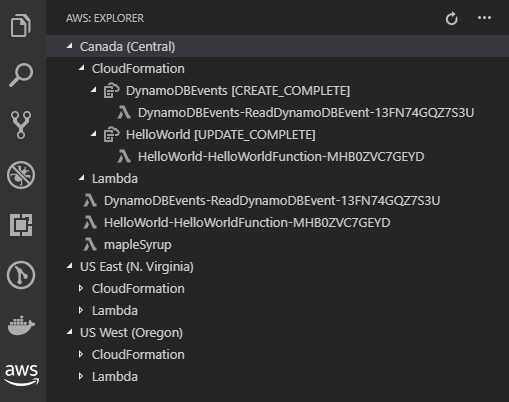
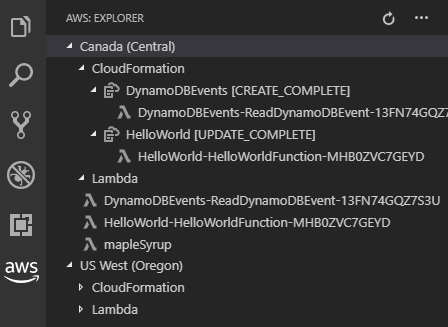
Review of extension-readme.md.

diff --git a/extension-readme.md b/extension-readme.md
@@ -1,112 +1,143 @@
 # <a id="top"></a>AWS Toolkit for Visual Studio Code
 
-The AWS Toolkit for Visual Studio Code is an extension that enables you to interact with [Amazon Web Services (AWS)](https://aws.amazon.com/what-is-aws/) from within Visual Studio Code.
+The *AWS Toolkit for Visual Studio Code* is an extension that enables you to interact with [Amazon Web Services (AWS)](https://aws.amazon.com/what-is-aws/) from within the Visual Studio Code editor.
+
+The following screedshots show important parts of the Toolkit.
+
+### Fundamental UI Components
 
 ![Overview](./resources/marketplace/overview.png)
 
-## Contents
+### <a id="open-command-palette"></a>AWS Commands in the Command Palette
+<!--
+![AWS Commands](./resources/marketplace/open-command-palette.png)
+-->
+
+![Command Palette](./resources/marketplace/open-command-palette.gif)
+___
+
+# <a id="contents"></a>Contents
 
 * [Features](#features)
 * [Setup](#additional-setup-steps)
+* [AWS Commands](#aws-commands)
 * [Usage](#usage)
 * [Get Help](#get-help)
 
-## <a id="features"></a>Features
+| [Return to Top](#top) |
+___
 
-You can use the AWS Toolkit for Visual Studio Code to:
+# <a id="features"></a>Features
 
-* [Develop serverless applications locally, and then deploy them to an AWS account](#developing-serverless-applications)
-* [Manage supported AWS resources in an AWS account](#managing-aws-resources)
-  
-  * List AWS CloudFormation stacks.
-  * List AWS Lambda functions.
-  * Invoke Lambda functions.
+You can use the AWS Toolkit for Visual Studio Code as follows:
+
+* Develop serverless applications locally, and then deploy them to an AWS account (see [Usage](#usage))
+* Manage certain supported AWS resources in an AWS account (see [Usage](#usage)).
+
+  This includes:
+  * Listing and deleting AWS CloudFormation stacks
+  * Listing and invoking AWS Lambda functions
+
+  For example:
 
   ![AWS Explorer](./resources/marketplace/aws-explorer.png)
 
-[Return to Top](#top)
+| [Return to Contents](#contents) | or | [Return to Top](#top) |
+___
 
-## <a id="additional-setup-steps"></a>Setup
+# <a id="additional-setup-steps"></a>Setup
 
-After you install the AWS Toolkit for Visual Studio Code, you must complete these additional steps to access most of its features:
+After you install the AWS Toolkit for Visual Studio Code, to access most of its features, you must complete the additional steps defined in the [Getting Started](https://docs.aws.amazon.com/console/toolkit-for-vscode/getting-started) topic of the _AWS Toolkit for Visual Studio Code User Guide_. These additional steps include the following:
 
-1. [Create an AWS account](https://aws.amazon.com/premiumsupport/knowledge-center/create-and-activate-aws-account/).
-1. [Create an access key](https://docs.aws.amazon.com/toolkit-for-vscode/latest/userguide/setup-credentials.html).
-1. Connect the Toolkit to AWS by using [AWS credentials](#managing-aws-resources).
+1. Create an AWS account (see the [Prerequisites](https://docs.aws.amazon.com/console/toolkit-for-vscode/setup-toolkit#setup-prereq) in the user guide and also these [additional details](https://aws.amazon.com/premiumsupport/knowledge-center/create-and-activate-aws-account/))
+1. Create and configure a set of AWS credentials (see **Step 1** of [Managing AWS Resources](#managing-aws-resources))
+1. Connect the Toolkit to AWS using those credentials (see **Step 2** of [Managing AWS Resources](#managing-aws-resources))
 
 To use this Toolkit to develop [serverless applications with AWS](https://aws.amazon.com/serverless/), you must also do the following on the local machine where the Toolkit is installed:
 
-1. Install the [AWS Command Line Interface (AWS CLI)](https://docs.aws.amazon.com/cli/latest/userguide/cli-chap-install.html).
-1. Install and start [Docker](https://docs.docker.com/install/).
-1. Install the [AWS SAM CLI](https://docs.aws.amazon.com/serverless-application-model/latest/developerguide/serverless-sam-cli-install.html).
+1. Install the AWS Command Line Interface (AWS CLI)
+1. Install and start Docker (also see this general information about [Docker](https://docs.docker.com/install/))
+1. Install the AWS SAM CLI
 
-For complete setup instructions, see [Setting Up the AWS Toolkit for Visual Studio Code](https://docs.aws.amazon.com/toolkit-for-vscode/latest/userguide/getting-started.html) in the _AWS Toolkit for Visual Studio Code User Guide_.
+See [Installing the AWS SAM CLI](https://docs.aws.amazon.com/serverless-application-model/latest/developerguide/serverless-sam-cli-install.html) for complete setup instructions for these three components.
 
-[Return to Top](#top)
+| [Return to Contents](#contents) | or | [Return to Top](#top) |
+___
 
-## <a id="usage"></a>Usage
+# <a id="aws-commands"></a>AWS Commands
 
-* [Command Palette](#command-palette)
+The AWS Toolkit for Visual Studio Code has several features that you can access through the [Command Palette](#open-command-palette) (**View**, then **Command Palette**):
+
+| AWS Command | Description |
+| :---------- | :---------- |
+| **AWS: Create Credentials Profile** | Creates an AWS credentials profile. For more information, see **Step 1** in [Managing AWS Resources](#managing-aws-resources). |
+| **AWS: Connect to AWS** | Connects the Toolkit to an AWS account. For more information, see **Step 2** in [Managing AWS Resources](#managing-aws-resources). |
+| **AWS: Create New SAM Application** | Generates a set of code files for a new AWS serverless application. For more information, see [Create a Serverless Application](#create-serverless-application). |
+| **AWS: Deploy SAM Application** | Deploys a local serverless application to an AWS account. For more information, see [Deploy a Serverless Application](#deploy-serverless-application). |
+| **AWS: Detect SAM CLI** | Checks whether the Toolkit can communicate correctly with the AWS SAM CLI that is installed. |
+| **AWS: Focus on Explorer View** | Opens the **AWS: Explorer** Side Bar, which we will simply call _the **AWS Explorer**_, and then moves the focus there. |
+| **AWS: Hide region from the Explorer** | Hides an AWS Region from the the **AWS Explorer**. |
+| **AWS: Show region in the Explorer** | Displays an AWS Region in the **AWS Explorer**. |
+| **AWS: Sign out** | Disconnects the Toolkit from the currently-connected AWS account. |
+| **AWS: View AWS Toolkit Logs** | Displays log files that contain general Toolkit diagnostic information. |
+| **AWS: View Documentation** | Opens the [user guide](https://docs.aws.amazon.com/console/toolkit-for-vscode/welcome) for the Toolkit. |
+| **AWS: View Source on GitHub** | Opens the [GitHub repository](https://github.com/aws/aws-toolkit-vscode) for the Toolkit. |
+
+| [Return to Contents](#contents) | or | [Return to Top](#top) |
+___
+
+# <a id="usage"></a>Usage
+
 * [Managing AWS Resources](#managing-aws-resources)
 * [Developing Serverless Applications](#developing-serverless-applications)
 
-[Return to Top](#top)
+| [Return to Contents](#contents) | or | [Return to Top](#top) |
 
-### <a id="command-palette"></a>Command Palette
+## <a id="managing-aws-resources"></a>Usage: Managing AWS Resources
+___
 
-![Debug Icon](./resources/marketplace/command-palette.png)
+### **Step 1**: Set Up a Credentials Profile
+(*Note*: If you already have an AWS credentials profile, skip ahead to "**Step 2**: Connect to an AWS Account".)
 
-You can access many of the AWS Toolkit for Visual Studio Code features through **Command Palette**. To access the available commands, choose **View, Command Palette** on the menu bar, and then begin typing `AWS:`.
+For complete instructions, see [Setting Up Your AWS Credentials](https://docs.aws.amazon.com/console/toolkit-for-vscode/setup-credentials) in the _AWS Toolkit for Visual Studio Code User Guide_.
 
-Available commands include:
-
-* **AWS: Connect to AWS** - Connects the Toolkit to an AWS account. For more information, see "Step 2: Connect to an AWS Account" in [Managing AWS Resources](#managing-aws-resources).
-* **AWS: Create Credentials Profile** - Creates an AWS credentials profile. For more information, see "Step 1: Create a Credentials Profile" in [Managing AWS Resources](#managing-aws-resources).
-* **AWS: Create New SAM Application** - Generates a set of code files for a new AWS serverless application. For more information, see [Create a Serverless Application](#create-serverless-application).
-* **AWS: Deploy SAM Application** - Deploys a local serverless application to an AWS account. For more information, see [Deploy a Serverless Application](#deploy-serverless-application).
-* **AWS: Detect SAM CLI** - Checks whether the Toolkit can communicate correctly with the AWS SAM CLI that is installed. 
-* **AWS: Focus on Explorer View** - Displays the **AWS: Explorer** Side Bar, if it isn't already displayed, and then moves the focus to it.
-* **AWS: Hide region from the Explorer** - Hides the list of available AWS resources for the specified AWS Region from the **AWS: Explorer** Side Bar.
-* **AWS: Show region in the Explorer** - Displays the list of available AWS resources for the specified AWS Region in the **AWS: Explorer** Side Bar.
-* **AWS: Sign out** - Disconnects the Toolkit from the currently connected AWS account.
-* **AWS: View AWS Toolkit Logs** - Displays log files that contain general Toolkit diagnosis information.
-* **AWS: View Quick Start** - Displays this page.
-
-[Return to Top](#top)
-
-### <a id="managing-aws-resources"></a>Managing AWS Resources
-
-#### Step 1: Set Up a Credentials Profile
-
-1. If you already have an AWS credentials profile, skip ahead to "Step 2: Connect to an AWS Account." (For additional information, see [Setting Up Your AWS Credentials](https://docs.aws.amazon.com/toolkit-for-vscode/latest/userguide/setup-credentials.html) in the _AWS Toolkit for Visual Studio Code User Guide_.)
+   In summary:
 1. On the menu bar, choose **View, Command Palette**.
-1. Begin typing: `AWS: Create Credentials Profile`. When you see the **AWS: Create Credentials Profile** command, choose it.
-1. Follow the on-screen instructions to add AWS credentials profile information. (For additional information, see [Setting Up Your AWS Credentials](https://docs.aws.amazon.com/toolkit-for-vscode/latest/userguide/setup-credentials.html) in the _AWS Toolkit for Visual Studio Code User Guide_.) 
+1. Begin typing: "**AWS: Create Credentials Profile**" and choose that command when you see it.
+1. Follow the on-screen instructions to add an AWS credentials profile to your environment. 
 
-#### Step 2: Connect to an AWS Account
+### **Step 2**: Connect to an AWS Account
 
+For complete instructions, see [Connect to AWS](https://docs.aws.amazon.com/console/toolkit-for-vscode/connect) in the _AWS Toolkit for Visual Studio Code User Guide_ .
+
+In summary:
 1. On the menu bar, choose **View, Command Palette**.
-1. Begin typing `AWS: Connect to AWS`. When you see the **AWS: Connect to AWS** command, choose it.
-1. In the list of AWS credentials profiles that is displayed, choose the AWS credentials profile that you want to use. (For additional information, see [Setting Up Your AWS Credentials](https://docs.aws.amazon.com/toolkit-for-vscode/latest/userguide/setup-credentials.html) in the _AWS Toolkit for Visual Studio Code User Guide_.)
+1. Begin typing "**AWS: Connect to AWS**" and choose that command when you see it.
+1. In the list of AWS credentials profiles, choose the profile that you want to use.
 
-#### Step 3: Work with Available AWS Resources
+### **Step 3**: Work with Available AWS Resources
 
-1. If the **AWS: Explorer** Side Bar isn't displayed, display it by choosing the **AWS** icon in the Activity Bar. (To hide the **AWS: Explorer**, choose the **AWS** icon again.)
-1. If you have existing resources in your AWS account but they aren't displayed in the **AWS: Explorer**, choose the **Refresh** icon in the **AWS: Explorer** to display them. 
-1. Expand the AWS Region that contains the resource that you want to manage. (To hide or show AWS Region information, choose **View, Command Palette** on the menu bar, and then choose **AWS: Hide region from the Explorer** or **AWS: Show region in the Explorer**.)
-1. Expand the AWS service that contains the resource that you want to manage. (Currently, the Toolkit doesn't support all available AWS services and resource types.)
-1. If applicable, expand the parent resource that contains the child resource that you want to manage.
-1. Right-click the resource to manage, and then choose one of the available actions in the context menu. (Currently, the Toolkit doesn't support all available resource actions.)
+For complete information, see [Working with AWS Services](https://docs.aws.amazon.com/console/toolkit-for-vscode/working-with-aws) in the _AWS Toolkit for Visual Studio Code User Guide_ .
 
-For more information, see the following in the _AWS Toolkit for Visual Studio Code User Guide_:
+1. If the **AWS Explorer** isn't showing, open it by choosing the **AWS** icon in the Activity Bar:
+   
+   ![AWS Explorer Icon](./resources/marketplace/aws-explorer-icon.png)
+2. If you have existing resources in your AWS account but they aren't being displayed in the **AWS Explorer** (and assuming that your credentials and a connection have been set up properly), choose the **Refresh** icon in the **AWS Explorer** to show them. 
+3. Expand the AWS Region that contains the resource that you want to manage.
 
-* [Setting Up Your AWS Credentials](https://docs.aws.amazon.com/toolkit-for-vscode/latest/userguide/setup-credentials.html)
-* [Changing AWS Regions](https://docs.aws.amazon.com/toolkit-for-vscode/latest/userguide/setup-region.html)
-* [Exploring AWS Explorer](https://docs.aws.amazon.com/toolkit-for-vscode/latest/userguide/aws-explorer.html)
+   (**Note**: To show or hide AWS regions, choose **View, Command Palette** on the menu bar, and then choose **AWS: Show region in the Explorer** or **AWS: Hide region from the Explorer**.)
+4. Expand the supported AWS service that contains the resource that you want to manage.
 
-[Return to Top](#top)
+   (**Note**: Not all services are currently supported.)
+5. If applicable, expand the parent resource that contains the child resource that you want to manage.
+6. Open the context menu of the resource you want to manage and choose one of the available actions.
 
-### <a id="developing-serverless-applications"></a>Developing Serverless Applications
+   (**Note**: Not all service actions are currently supported.)
+
+| [Return to Usage](#usage) |
+
+## <a id="developing-serverless-applications"></a>Usage: Developing Serverless Applications
+___
 
 You can use the AWS Toolkit for Visual Studio Code to create, run, debug, and deploy serverless applications.
 
@@ -114,23 +145,28 @@ You can use the AWS Toolkit for Visual Studio Code to create, run, debug, and de
 * [Run or Debug a Serverless Application](#run-debug-serverless-application)
 * [Deploy a Serverless Application](#deploy-serverless-application)
 
-[Return to Top](#top)
+| [Return to Usage](#usage) |
 
-#### <a id="create-serverless-application"></a>Create a Serverless Application
+### <a id="create-serverless-application"></a>**Step 1**: Create a Serverless Application
 
-![Create SAM Application](./resources/marketplace/create-sam-app.gif)
+For complete instructions, see [Creating a Serverless Application](https://docs.aws.amazon.com/console/toolkit-for-vscode/create-sam) in the _AWS Toolkit for Visual Studio Code User Guide_.
 
+In summary:
 1. On the menu bar, choose **View, Command Palette**.
-1. Begin typing: `AWS: Create new SAM Application`. When you see the **AWS: Create new SAM Application** command, choose it.
-1. Follow the on-screen instructions to finish creating the SAM application.
+2. Begin typing "**AWS: Create new SAM Application**" and choose that command when you see it.
+3. Follow the on-screen instructions to finish creating the SAM application.
+   
+   For example:
 
-The Toolkit produces the application code and files, adds them to the location you specified, and opens the program file in the editor.
+   ![Create SAM App](./resources/marketplace/create-sam-app-still.png)
 
-For more information, see [Creating a Serverless Application](https://docs.aws.amazon.com/toolkit-for-vscode/latest/userguide/create-sam.html) in the _AWS Toolkit for Visual Studio Code User Guide_.
 
-[Return to Top](#top)
+The Toolkit produces the application code and files, adds them to the location you specified, and opens the `template.yaml` file in the editor.
 
-#### <a id="run-debug-serverless-application"></a>Run or Debug a Serverless Application
+
+| [Return to Developing](#developing-serverless-applications) | or | [Return to Usage](#usage) |
+
+### <a id="run-debug-serverless-application"></a>**Step 2**: Run or Debug the Serverless Application
 
 ![Configure and Run](./resources/marketplace/sam-configure-and-run.gif)
 
@@ -146,9 +182,9 @@ After you choose the **AWS** icon in the Activity Bar, CodeLenses display within
 
 For information about how to work with remote versions of Lambda functions, see [Interacting with Remote Lambda Functions](https://docs.aws.amazon.com/toolkit-for-vscode/latest/userguide/remote-lambda.html) in the _AWS Toolkit for Visual Studio Code User Guide_.
 
-[Return to Top](#top)
+| [Return to Developing](#developing-serverless-applications) | or | [Return to Usage](#usage) |
 
-#### <a id="deploy-serverless-application"></a>Deploy a Serverless Application
+### <a id="deploy-serverless-application"></a>**Step 3**: Deploy the Serverless Application
 
 ![Deploy SAM Application](./resources/marketplace/sam-deploy.gif)
 
@@ -157,24 +193,27 @@ For information about how to work with remote versions of Lambda functions, see 
 Before you start this procedure, you must have an Amazon S3 bucket in the AWS account. The AWS Toolkit for Visual Studio Code will use this bucket when packaging and deploying the application. (To create a bucket, see [How Do I Create an S3 Bucket](https://docs.aws.amazon.com/AmazonS3/latest/user-guide/create-bucket.html) in the _Amazon Simple Storage Service Console User Guide_.)  
 
 1. On the menu bar, choose **View, Command Palette**.
-1. Begin typing: `AWS: Deploy SAM Application`. When you see the **AWS: Deploy SAM Application** command, choose it.
-1. Follow the on-screen instructions to finish deploying the serverless application, including:
+2. Begin typing: `AWS: Deploy SAM Application`. When you see the **AWS: Deploy SAM Application** command, choose it.
+3. Follow the on-screen instructions to finish deploying the serverless application, including:
     
    1. Choosing the SAM template file that corresponds with the serverless application you want to deploy.
-   1. Choosing the AWS Region you want to deploy to.
-   1. Specifying the name of an existing Amazon S3 bucket in the AWS account that the Toolkit will use for packaging and deploying the serverless application. (The Toolkit uses Amazon S3 as part of its process to deploy serverless applications.) The bucket must exist within the AWS Region that you chose earlier.
+   2. Choosing the AWS Region you want to deploy to.
+   3. Specifying the name of an existing Amazon S3 bucket in the AWS account that the Toolkit will use for packaging and deploying the serverless application. (The Toolkit uses Amazon S3 as part of its process to deploy serverless applications.) The bucket must exist within the AWS Region that you chose earlier.
 
-1. The serverless application is deployed to an AWS CloudFormation stack. (The Toolkit uses AWS CloudFormation as part of its process to deploy serverless applications.) If the stack already exists, it is updated; otherwise, a new stack is created. Within a few minutes, the Toolkit displays a deployment success or failure message.
-1. To work with the corresponding stack that the Toolkit creates in AWS CloudFormation, in the **AWS: Explorer**, expand the AWS Region that contains the stack. Then expand **AWS CloudFormation**. Lastly, expand or right-click on the stack that you want to manage.
+4. The serverless application is deployed to an AWS CloudFormation stack. (The Toolkit uses AWS CloudFormation as part of its process to deploy serverless applications.) If the stack already exists, it is updated; otherwise, a new stack is created. Within a few minutes, the Toolkit displays a deployment success or failure message.
+5. To work with the corresponding stack that the Toolkit creates in AWS CloudFormation, in the **AWS Explorer**, expand the AWS Region that contains the stack. Then expand **AWS CloudFormation**. Lastly, expand or right-click on the stack that you want to manage.
 
 For more information, see [Deploying a Serverless Application](https://docs.aws.amazon.com/toolkit-for-vscode/latest/userguide/deploy-serverless-app.html) in the _AWS Toolkit for Visual Studio Code User Guide_. 
 
-[Return to Top](#top)
+| [Return to Developing](#developing-serverless-applications) | or | [Return to Usage](#usage) |
+___
 
-### <a id="get-help"></a>Get Help
+# <a id="get-help"></a>Get Help
+
+For additional details on how to use the AWS Toolkit for Visual Studio Code, see the [user guide](https://docs.aws.amazon.com/console/toolkit-for-vscode/welcome).
 
 To report issues with the AWS Toolkit for Visual Studio Code or to propose Toolkit code changes, see the [aws/aws-toolkit-vscode](https://github.com/aws/aws-toolkit-vscode) repository on GitHub.
 
 You can also [contact AWS](https://aws.amazon.com/contact-us/) directly.
 
-[Return to Top](#top)
+| [Return to Top](#top) |
